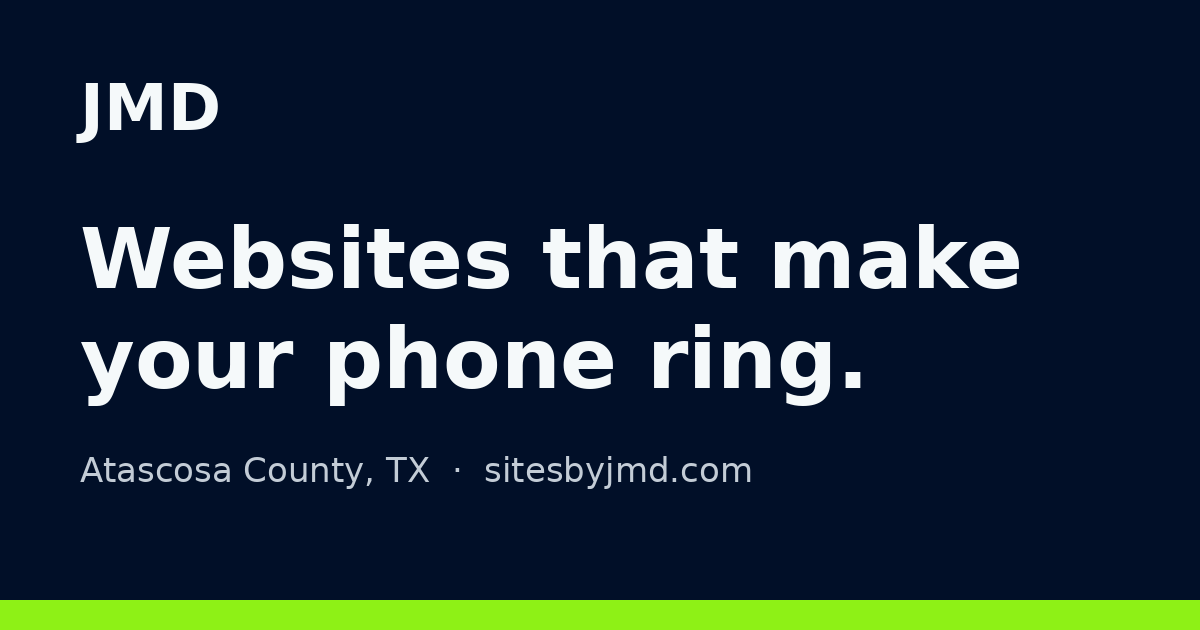
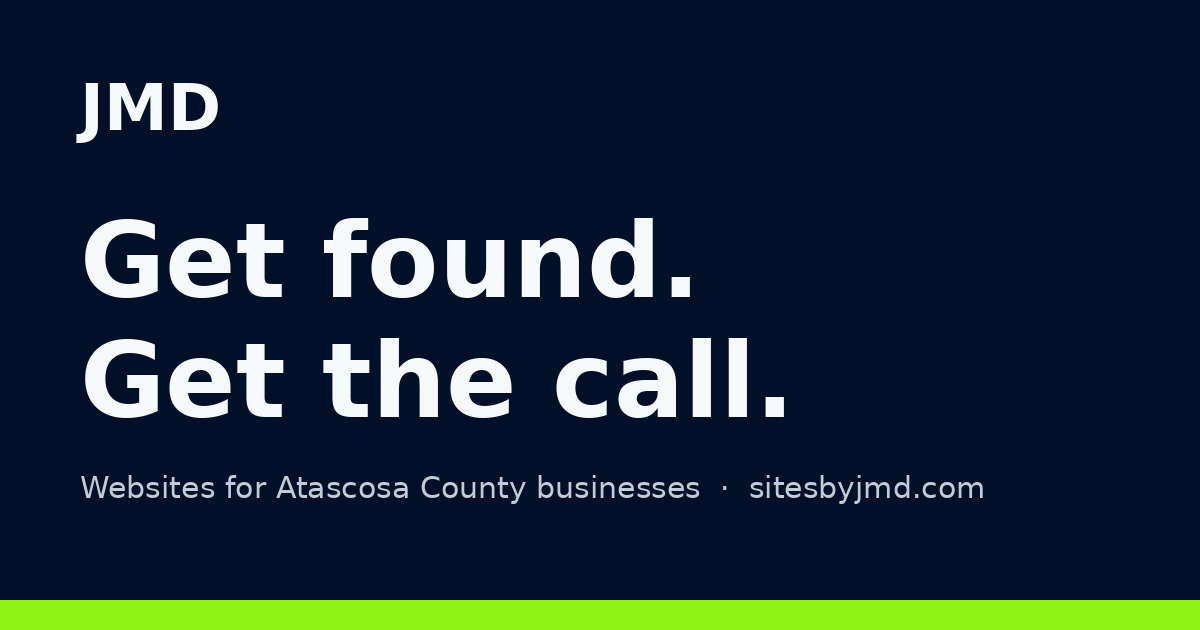
Review fixes: demo pause, per-page CTAs, who-I-build-for, promise line
- Hero demo gets a Pause/Play control (WCAG 2.2.2)
- Example businesses renamed to generic "Your ..." names
- Each page has its own closing call to action
- New "Who I build for" section on the home page
- Four-column promise strip replaced with one statement
- Share image updated to the new headline

Claude-Session: https://claude.ai/code/session_01HUqwzAeyo6MfmwvXXNra1N

diff --git a/services.html b/services.html
@@ -80,14 +80,14 @@
         </div>
         <figure class="svc-visual" data-reveal>
           <div class="mock-browser" aria-hidden="true">
-            <div class="mock-url">rosastacos.com</div>
+            <div class="mock-url">yourtacoshop.com</div>
             <div class="mock-page">
-              <div class="mock-nav"><b>Rosa's Tacos</b><span>Menu</span><span>Hours</span><span class="mock-pill">Call now</span></div>
-              <div class="mock-hero"><p class="mock-h">Breakfast tacos in Poteet since 6 AM.</p><span class="mock-pill">Order ahead</span></div>
+              <div class="mock-nav"><b>Your Taco Shop</b><span>Menu</span><span>Hours</span><span class="mock-pill">Call now</span></div>
+              <div class="mock-hero"><p class="mock-h">Breakfast tacos every day from 6 AM.</p><span class="mock-pill">Order ahead</span></div>
               <div class="mock-cols"><span></span><span></span><span></span></div>
             </div>
             <div class="mock-mini">
-              <b>Rosa's Tacos</b><p class="mock-h">Breakfast tacos in Poteet.</p><span class="mock-pill">Call now</span><span class="mock-block"></span>
+              <b>Your Taco Shop</b><p class="mock-h">Breakfast tacos from 6 AM.</p><span class="mock-pill">Call now</span><span class="mock-block"></span>
             </div>
           </div>
           <figcaption>Example: the same site on a computer and a phone.</figcaption>
@@ -109,7 +109,7 @@
         <figure class="svc-visual" data-reveal>
           <div class="mock-google" aria-hidden="true">
             <div class="mock-listing">
-              <p class="mock-lname">Main Street Barber</p>
+              <p class="mock-lname">Your Barbershop</p>
               <p class="mock-lmeta"><span class="open">Open</span> &middot; Barbershop in Pleasanton, TX</p>
               <div class="listing-actions"><span class="call">Call</span><span>Directions</span><span>Book</span></div>
               <dl class="mock-hours"><dt>Tue&ndash;Fri</dt><dd>9 AM&ndash;6 PM</dd><dt>Saturday</dt><dd>8 AM&ndash;2 PM</dd><dt>Sun&ndash;Mon</dt><dd>Closed</dd></dl>
@@ -138,7 +138,7 @@
         </div>
         <figure class="svc-visual" data-reveal>
           <div class="mock-log" aria-hidden="true">
-            <p class="mock-log-title">This month on rosastacos.com</p>
+            <p class="mock-log-title">This month on yourtacoshop.com</p>
             <ol>
               <li><span>Nov 3</span>Holiday hours updated</li>
               <li><span>Nov 7</span>Backup saved</li>
@@ -166,8 +166,8 @@
         </div>
         <figure class="svc-visual" data-reveal>
           <div class="mock-menu" aria-hidden="true">
-            <p class="mock-menu-mark">RT</p>
-            <p class="mock-menu-title">Rosa's Tacos</p>
+            <p class="mock-menu-mark">YT</p>
+            <p class="mock-menu-title">Your Taco Shop</p>
             <p class="mock-menu-sub">Breakfast &middot; served until 11</p>
             <ul>
               <li><span>Bean &amp; cheese</span><i></i><span>2.50</span></li>
@@ -200,10 +200,10 @@
 
     <section class="cta-band" aria-labelledby="cta-title">
       <div class="wrap" data-reveal>
-        <h2 id="cta-title">Get a free website check-up.</h2>
+        <h2 id="cta-title">Not sure which one you need?</h2>
         <div class="cta-side">
-          <p>I'll look at your website and Google listing the way a customer would, then send you a short list of what to fix first. Free, and you don't have to hire me.</p>
-          <a class="btn btn-navy" href="contact.html#book">Get my free check-up</a>
+          <p>Tell me about your business in a 15-minute call. I'll tell you what would bring in the most calls for the money, even if it's just one thing.</p>
+          <a class="btn btn-navy" href="contact.html#book">Book a free 15-minute call</a>
           <a href="tel:+1PHONE_DIGITS">Or call [PHONE]</a>
         </div>
       </div>

diff --git a/index.html b/index.html
@@ -133,6 +133,7 @@
               </div>
             </div>
           </div>
+          <button class="demo-toggle" type="button" id="demo-toggle" hidden aria-pressed="false">Pause demo</button>
           <form class="preview-form" id="preview-form" aria-describedby="pv-note">
             <fieldset>
               <legend>See your business here</legend>
@@ -172,15 +173,10 @@
       </div>
     </section>
 
-    <section class="promises" aria-labelledby="promises-title">
-      <h2 id="promises-title" class="visually-hidden">What working with me is like</h2>
-      <div class="wrap">
-        <ul data-reveal>
-          <li><strong>You talk to me</strong><span>No account managers or call centers. The person you call is the person building your site.</span></li>
-          <li><strong>Plain English</strong><span>I explain every choice without tech talk, and I answer your questions.</span></li>
-          <li><strong>You own it</strong><span>Your domain, your website and your Google listing stay in your name.</span></li>
-          <li><strong>Local</strong><span>I work with businesses across Atascosa County and can meet in person.</span></li>
-        </ul>
+    <section class="promise" aria-labelledby="promise-title">
+      <div class="wrap promise-grid" data-reveal>
+        <h2 id="promise-title" class="promise-line">You talk to me, start to finish. Plain English, no account managers, and everything stays in your name.</h2>
+        <p class="promise-side">Based in [CITY] and working across Atascosa County. Happy to meet at your shop.</p>
       </div>
     </section>
 
@@ -195,6 +191,18 @@
           <li><a href="services.html#google"><h3>Google Maps &amp; reviews</h3><p>Get on the map, collect reviews and let customers book online.</p><span class="price">From [PRICE]</span></a></li>
           <li><a href="services.html#care"><h3>Monthly care plan</h3><p>Hosting, updates, backups and small changes, handled for you.</p><span class="price">[PRICE]/month</span></a></li>
           <li><a href="services.html#graphics"><h3>Graphic design</h3><p>Logos, menus, flyers, signs and social media graphics.</p><span class="price">From [PRICE]</span></a></li>
+        </ul>
+      </div>
+    </section>
+
+    <section class="section who" aria-labelledby="who-title">
+      <div class="wrap">
+        <div class="section-head split" data-reveal>
+          <h2 id="who-title">Who I build for</h2>
+          <p>If your customers look you up on their phone before they call or drive over, I can help.</p>
+        </div>
+        <ul class="who-list" data-reveal>
+          <li>Barbershops</li><li>Restaurants</li><li>Taquerias</li><li>Auto shops</li><li>Plumbers</li><li>Electricians</li><li>Hair salons</li><li>Feed stores</li><li>Landscapers</li><li>Contractors</li><li>Food trucks</li><li>Boutiques</li>
         </ul>
       </div>
     </section>
@@ -255,8 +263,8 @@
       <div class="wrap" data-reveal>
         <h2 id="cta-title">Get a free website check-up.</h2>
         <div class="cta-side">
-          <p>I'll look at your website and Google listing the way a customer would, then send you a short list of what to fix first. Free, and you don't have to hire me.</p>
-          <a class="btn btn-navy" href="contact.html#book">Get my free check-up</a>
+          <p>I'll look at your website and Google listing the way a customer would, then send you a short list of what to fix first. It's free, and you don't have to hire me.</p>
+          <a class="btn btn-navy" href="contact.html?service=checkup#book">Get my free check-up</a>
           <a href="tel:+1PHONE_DIGITS">Or call [PHONE]</a>
         </div>
       </div>

diff --git a/js/main.js b/js/main.js
@@ -73,18 +73,25 @@
     var reduce = window.matchMedia("(prefers-reduced-motion: reduce)").matches;
     var callBtn = listing.querySelector(".call");
     var examples = [
-      ["Main Street Barber", "barber", "Pleasanton"],
-      ["Rosa's Tacos", "restaurant", "Poteet"],
-      ["Brush Country Auto", "mechanic", "Jourdanton"],
-      ["Lytle Lawn & Land", "landscaper", "Lytle"]
+      ["Your Barbershop", "barber", "Pleasanton"],
+      ["Your Taco Shop", "restaurant", "Poteet"],
+      ["Your Auto Shop", "mechanic", "Jourdanton"],
+      ["Your Landscaping Co.", "landscaper", "Lytle"]
     ];
     var demoOn = !reduce && "IntersectionObserver" in window;
     var demoTimers = [];
-    var stopDemo = function () {
-      if (!demoOn) return;
-      demoOn = false;
+    var demoBtn = document.getElementById("demo-toggle");
+    var demoIndex = 0;
+    var halt = function () {
       demoTimers.forEach(clearTimeout);
+      demoTimers = [];
       outSearch.classList.remove("is-typing");
+    };
+    var stopDemo = function () {
+      if (!demoOn && (!demoBtn || demoBtn.hidden)) return;
+      demoOn = false;
+      halt();
+      if (demoBtn) demoBtn.hidden = true;
       update(false);
     };
     ["focusin", "pointerdown"].forEach(function (ev) { form.addEventListener(ev, stopDemo); });
@@ -92,6 +99,7 @@
     var later = function (fn, ms) { demoTimers.push(setTimeout(fn, ms)); };
     var runExample = function (i) {
       if (!demoOn) return;
+      demoIndex = i;
       var ex = examples[i % examples.length];
       var query = ex[1] + " near " + ex[2];
       outSearch.textContent = "";
@@ -116,6 +124,23 @@
       }, query.length * 45 + 900);
       later(function () { runExample(i + 1); }, query.length * 45 + 3600);
     };
+    if (demoOn && demoBtn) {
+      demoBtn.hidden = false;
+      demoBtn.addEventListener("click", function () {
+        var paused = demoBtn.getAttribute("aria-pressed") === "true";
+        if (paused) {
+          demoBtn.setAttribute("aria-pressed", "false");
+          demoBtn.textContent = "Pause demo";
+          demoOn = true;
+          runExample(demoIndex + 1);
+        } else {
+          demoBtn.setAttribute("aria-pressed", "true");
+          demoBtn.textContent = "Play demo";
+          demoOn = false;
+          halt();
+        }
+      });
+    }
     if (demoOn) {
       var phone = document.querySelector(".phone");
       var started = false;

diff --git a/css/styles.css b/css/styles.css
@@ -262,6 +262,28 @@ html { scrollbar-color: var(--navy-3) var(--navy); accent-color: var(--lime); }
 @media (min-width: 48em) { .promises ul { grid-template-columns: repeat(2, 1fr); } }
 @media (min-width: 70em) { .promises ul { grid-template-columns: repeat(4, 1fr); } }
 
+/* ---------- Promise statement ---------- */
+.promise { background: var(--navy-2); padding-block: clamp(3.5rem, 2.5rem + 4vw, 6rem); }
+.promise-grid { display: grid; gap: var(--space-3); }
+.promise-line { font: 600 clamp(1.625rem, 1.1rem + 2vw, 2.75rem)/1.15 var(--font-display); letter-spacing: -0.03em; max-width: 28ch; }
+.promise-side { color: var(--ink-soft); max-width: 22rem; }
+@media (min-width: 60em) { .promise-grid { grid-template-columns: 1fr auto; align-items: end; gap: var(--space-5); } }
+
+/* ---------- Who I build for ---------- */
+.who-list { list-style: none; display: flex; flex-wrap: wrap; gap: 0.15em 0.6em; font: 600 clamp(2rem, 1.2rem + 3.4vw, 4.5rem)/1.05 var(--font-display); letter-spacing: -0.04em; }
+.who-list li { color: var(--ink); }
+.who-list li:nth-child(3n+2) { color: var(--ink-soft); }
+.who-list li:not(:last-child)::after { content: ","; color: var(--ink-soft); }
+.who-list li:nth-child(3n+2)::after { color: var(--ink-soft); }
+
+/* ---------- Demo pause ---------- */
+.demo-toggle {
+  background: none; border: 0; color: var(--ink-soft); font: 500 var(--step-small) var(--font-body);
+  text-decoration: underline; text-underline-offset: 0.2em; cursor: pointer; padding: 0.5rem;
+}
+.demo-toggle:hover { color: var(--ink); }
+.demo-toggle[hidden] { display: none; }
+
 /* ---------- Section heads ---------- */
 .section-head { display: grid; gap: var(--space-3); margin-bottom: var(--space-5); }
 .section-head p { color: var(--ink-soft); }

diff --git a/process.html b/process.html
@@ -171,10 +171,10 @@
 
     <section class="cta-band" aria-labelledby="cta-title">
       <div class="wrap" data-reveal>
-        <h2 id="cta-title">Get a free website check-up.</h2>
+        <h2 id="cta-title">Step one is a phone call.</h2>
         <div class="cta-side">
-          <p>I'll look at your website and Google listing the way a customer would, then send you a short list of what to fix first. Free, and you don't have to hire me.</p>
-          <a class="btn btn-navy" href="contact.html#book">Get my free check-up</a>
+          <p>Fifteen minutes, no cost, no pressure. You'll leave knowing what's possible for your business and roughly what it costs.</p>
+          <a class="btn btn-navy" href="contact.html#book">Book a free 15-minute call</a>
           <a href="tel:+1PHONE_DIGITS">Or call [PHONE]</a>
         </div>
       </div>

diff --git a/README.md b/README.md
@@ -101,7 +101,7 @@ Until then, the form shows a "not connected yet" message. It already includes a 
   - Buttons press down slightly
 
   Movement is turned off for people who set "reduce motion" on their device, and everything stays visible if JavaScript fails.
-- **Drawn examples:** Each service on the Services page has an example drawn in code: a website on a computer and a phone, a Google listing with a printed review QR card, a month of care-plan updates, and a printed menu. They use made-up example businesses (Rosa's Tacos, Main Street Barber) and are captioned "Example". Swap in real client work when you have it.
+- **Drawn examples:** Each service on the Services page has an example drawn in code: a website on a computer and a phone, a Google listing with a printed review QR card, a month of care-plan updates, and a printed menu. They use generic names (Your Taco Shop, Your Barbershop) so nobody mistakes them for real businesses, and they're captioned "Example". Swap in real client work when you have it.
 
 ## Checks run
 
